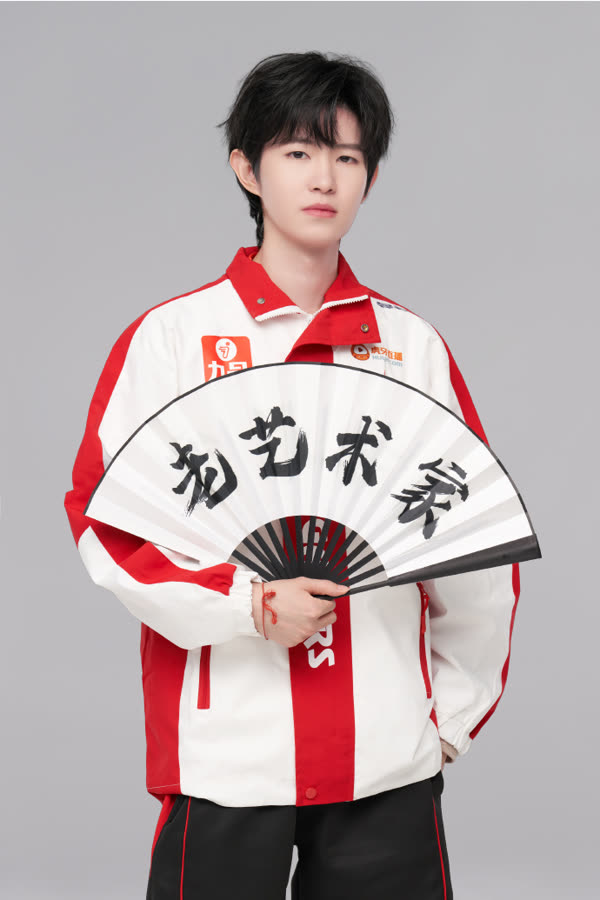
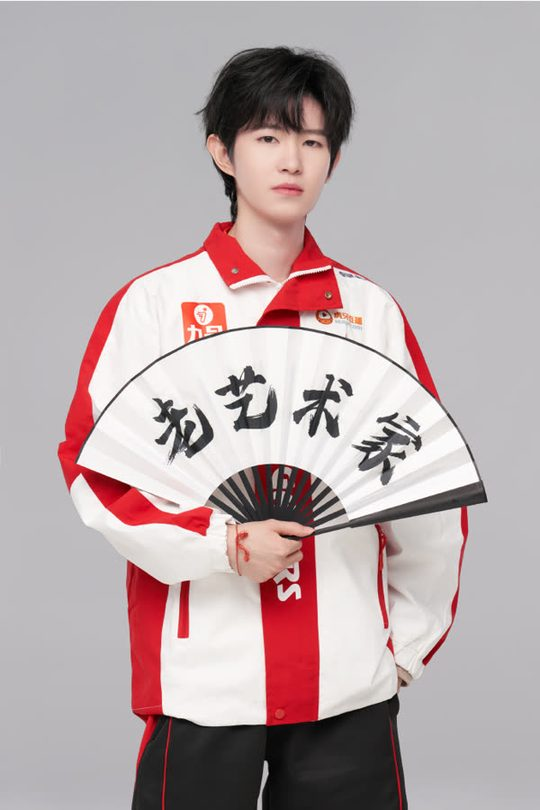
perf: 图片优化（压缩大图 + 图集缩略图，首屏与图集加载更轻）

diff --git a/index.html b/index.html
@@ -920,15 +920,15 @@
           <p>捧杯瞬间 · 初登赛场 · 总决赛海报 · 名场面</p>
         </div>
         <div class="gallery-grid">
-          <a class="g-tile" href="assets/about-yinuo.jpg" target="_blank" rel="noopener"><img src="assets/about-yinuo.jpg" alt="一诺捧杯瞬间" loading="lazy" /><span>捧杯瞬间</span></a>
-          <a class="g-tile" href="assets/timeline-debut.jpg" target="_blank" rel="noopener"><img src="assets/timeline-debut.jpg" alt="一诺初登赛场背影" loading="lazy" /><span>初登赛场</span></a>
-          <a class="g-tile" href="assets/hero-agnb.jpg" target="_blank" rel="noopener"><img src="assets/hero-agnb.jpg" alt="2024 KPL 年度总决赛海报" loading="lazy" /><span>总决赛海报</span></a>
-          <a class="g-tile" href="assets/hl-gongsunli-a-poster.jpg" target="_blank" rel="noopener"><img src="assets/hl-gongsunli-a-poster.jpg" alt="公孙离第一视角封面" loading="lazy" /><span>名场面</span></a>
-          <a class="g-tile" href="assets/photo-xubucheng.jpg" target="_blank" rel="noopener"><img src="assets/photo-xubucheng.jpg" alt="一诺徐必成照片" loading="lazy" /><span>徐必成</span></a>
-          <a class="g-tile" href="assets/photo-yinuo.jpg" target="_blank" rel="noopener"><img src="assets/photo-yinuo.jpg" alt="一诺赛场操作照" loading="lazy" /><span>赛场操作</span></a>
-          <a class="g-tile" href="assets/photo-makeup.jpg" target="_blank" rel="noopener"><img src="assets/photo-makeup.jpg" alt="一诺定妆照" loading="lazy" /><span>定妆照</span></a>
-          <a class="g-tile" href="assets/photo-fmvp.jpg" target="_blank" rel="noopener"><img src="assets/photo-fmvp.jpg" alt="2023 KIC FMVP 主宣" loading="lazy" /><span>FMVP 主宣</span></a>
-          <a class="g-tile" href="assets/photo-artist.jpg" target="_blank" rel="noopener"><img src="assets/photo-artist.jpg" alt="一诺老艺术家定妆照" loading="lazy" /><span>老艺术家</span></a>
+          <a class="g-tile" href="assets/about-yinuo.jpg" target="_blank" rel="noopener"><img src="assets/thumb-about-yinuo.jpg" alt="一诺捧杯瞬间" loading="lazy" /><span>捧杯瞬间</span></a>
+          <a class="g-tile" href="assets/timeline-debut.jpg" target="_blank" rel="noopener"><img src="assets/thumb-timeline-debut.jpg" alt="一诺初登赛场背影" loading="lazy" /><span>初登赛场</span></a>
+          <a class="g-tile" href="assets/hero-agnb.jpg" target="_blank" rel="noopener"><img src="assets/thumb-hero-agnb.jpg" alt="2024 KPL 年度总决赛海报" loading="lazy" /><span>总决赛海报</span></a>
+          <a class="g-tile" href="assets/hl-gongsunli-a-poster.jpg" target="_blank" rel="noopener"><img src="assets/thumb-hl-gongsunli-a-poster.jpg" alt="公孙离第一视角封面" loading="lazy" /><span>名场面</span></a>
+          <a class="g-tile" href="assets/photo-xubucheng.jpg" target="_blank" rel="noopener"><img src="assets/thumb-photo-xubucheng.jpg" alt="一诺徐必成照片" loading="lazy" /><span>徐必成</span></a>
+          <a class="g-tile" href="assets/photo-yinuo.jpg" target="_blank" rel="noopener"><img src="assets/thumb-photo-yinuo.jpg" alt="一诺赛场操作照" loading="lazy" /><span>赛场操作</span></a>
+          <a class="g-tile" href="assets/photo-makeup.jpg" target="_blank" rel="noopener"><img src="assets/thumb-photo-makeup.jpg" alt="一诺定妆照" loading="lazy" /><span>定妆照</span></a>
+          <a class="g-tile" href="assets/photo-fmvp.jpg" target="_blank" rel="noopener"><img src="assets/thumb-photo-fmvp.jpg" alt="2023 KIC FMVP 主宣" loading="lazy" /><span>FMVP 主宣</span></a>
+          <a class="g-tile" href="assets/photo-artist.jpg" target="_blank" rel="noopener"><img src="assets/thumb-photo-artist.jpg" alt="一诺老艺术家定妆照" loading="lazy" /><span>老艺术家</span></a>
         </div>
         <p class="sample-note">* 图片来自公开素材 / 粉丝拍摄 / 萌娘共享（CC BY-NC-SA 4.0），点击可查看大图。</p>
       </div>
